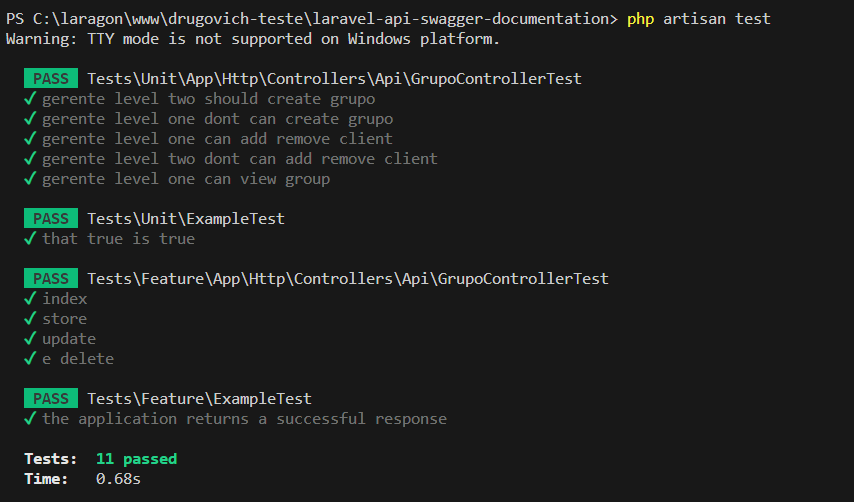
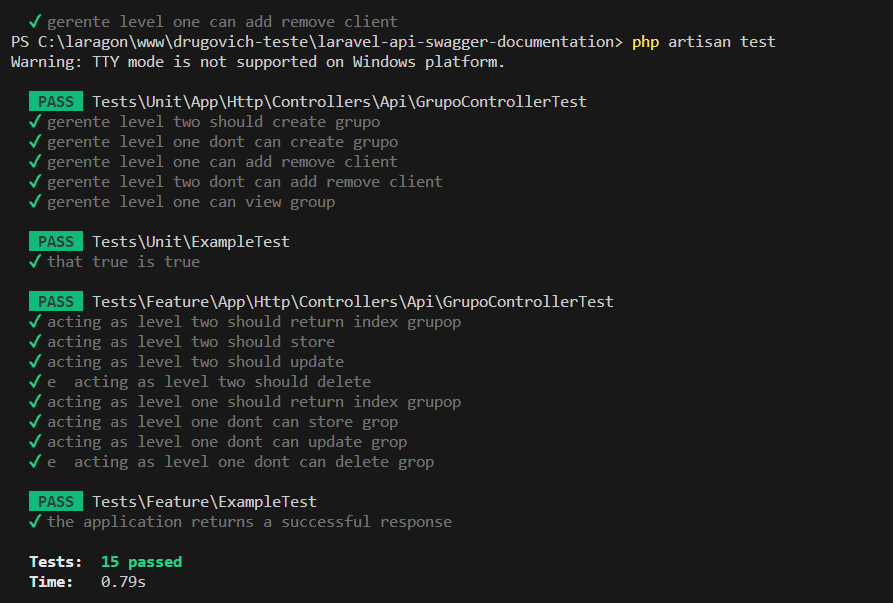
test: :white_check_mark: teste de integração e uitário

Changed region(s): [[0.0, 0.0299, 0.9133, 0.9861]]

diff --git a/tests/Feature/App/Http/Controllers/Api/GrupoControllerTest.php b/tests/Feature/App/Http/Controllers/Api/GrupoControllerTest.php
@@ -14,10 +14,11 @@ class GrupoControllerTest extends TestCase
      * @return void
      */
     public $idGrupoCreated;
-    public function test_index()
+    public function test_actingAs_level_two_should_return_index_grupop()
     {
-        $user = User::find(1);
-        $this->assertCount(1, $user->tokens);
+        $user = User::whereNivel(2)->first();
+        $this->assertEquals(2,$user->nivel);
+
         $this->actingAs($user);
         $response = $this->get('/api/grupo');
         $response->assertStatus(200);
@@ -28,10 +29,11 @@ class GrupoControllerTest extends TestCase
      *
      * @return void
      */
-    public function test_store()
+    public function test_actingAs_level_two_should_store()
     {
-        $user = User::find(1);
-        $this->assertCount(1, $user->tokens);
+        $user = User::whereNivel(2)->first();
+        $this->assertEquals(2,$user->nivel);
+
         $this->actingAs($user);
 
         $data = ["nome" => 'Grupo de Teste'];
@@ -48,10 +50,11 @@ class GrupoControllerTest extends TestCase
      *
      * @return void
      */
-    public function test_update()
+    public function test_actingAs_level_two_should_update()
     {
-        $user = User::find(1);
-        $this->assertCount(1, $user->tokens);
+        $user = User::whereNivel(2)->first();
+        $this->assertEquals(2,$user->nivel);
+
         $this->actingAs($user);
         $grupo = Grupo::find(3);
         $grupo =Grupo::latest()->get();
@@ -73,10 +76,11 @@ class GrupoControllerTest extends TestCase
      *
      * @return void
      */
-    public function teste_delete()
+    public function teste__actingAs_level_two_should_delete()
     {
-        $user = User::find(1);
-        $this->assertCount(1, $user->tokens);
+        $user = User::whereNivel(2)->first();
+        $this->assertEquals(2,$user->nivel);
+
         $this->actingAs($user);
         $grupo =Grupo::latest()->get();
         $idGrupo=json_decode($grupo)[0]->id;
@@ -87,6 +91,82 @@ class GrupoControllerTest extends TestCase
             $this->assertEquals(Null,$grupo);
             $this->assertEquals("success", $response->json('status'));
         } else {
+            $this->assertTrue(true);
+        }
+    }
+
+
+     /**
+     * Testa o método index do GrupoController.
+     * nivel pode visualizar grupo
+     * @return void
+     */
+
+    public function test_actingAs_level_one_should_return_index_grupop()
+    {
+        $user = User::whereNivel(1)->first();
+        $this->assertEquals(1,$user->nivel);
+        $this->actingAs($user);
+        $response = $this->get('/api/grupo');
+        $response->assertStatus(200);
+    }
+
+    /**
+     * Testa o método store do GrupoController.
+     *
+     * @return void
+     */
+    public function test_actingAs_level_one_dont_can_store_grop()
+    {
+        $user = User::whereNivel(1)->first();
+        $this->assertEquals(1,$user->nivel);
+        $this->actingAs($user);
+
+        $data = ["nome" => 'Grupo de Teste'];
+        $response = $this->json("post", "/api/grupo", $data);
+         $response->assertStatus(403);
+
+    }
+
+    /**
+     * Testa o método store do GrupoController.
+     *
+     * @return void
+     */
+    public function test_actingAs_level_one_dont_can_update_grop()
+    {
+        $user = User::find(2);
+        $this->actingAs($user);
+        $grupo = Grupo::find(3);
+        $grupo =Grupo::latest()->get();
+        $idGrupo=json_decode($grupo)[0]->id;
+        $data = [
+            "id" =>  $idGrupo,
+            "nome" => 'Grupo de Teste',
+        ];
+       if ($idGrupo){
+        $data = ["nome" => 'Grupo Updated'];
+        $response = $this->json("put", "/api/grupo/ $idGrupo", $data);
+        $response->assertStatus(403);
+          }
+    }
+
+     /**
+     * Testa o método delte do GrupoController.
+     *
+     * @return void
+     */
+    public function teste__actingAs_level_one_dont_can_delete_grop()
+    {
+        $user = User::whereNivel(1)->first();
+        $this->assertEquals(1,$user->nivel);;
+        $this->actingAs($user);
+        $grupo =Grupo::latest()->get();
+        $idGrupo=json_decode($grupo)[0]->id;
+        if ($idGrupo) {
+            $response = $this->json("DELETE", "/api/grupo/ $idGrupo");
+            $response->assertStatus(403);
+           } else {
             $this->assertTrue(true);
         }
     }
